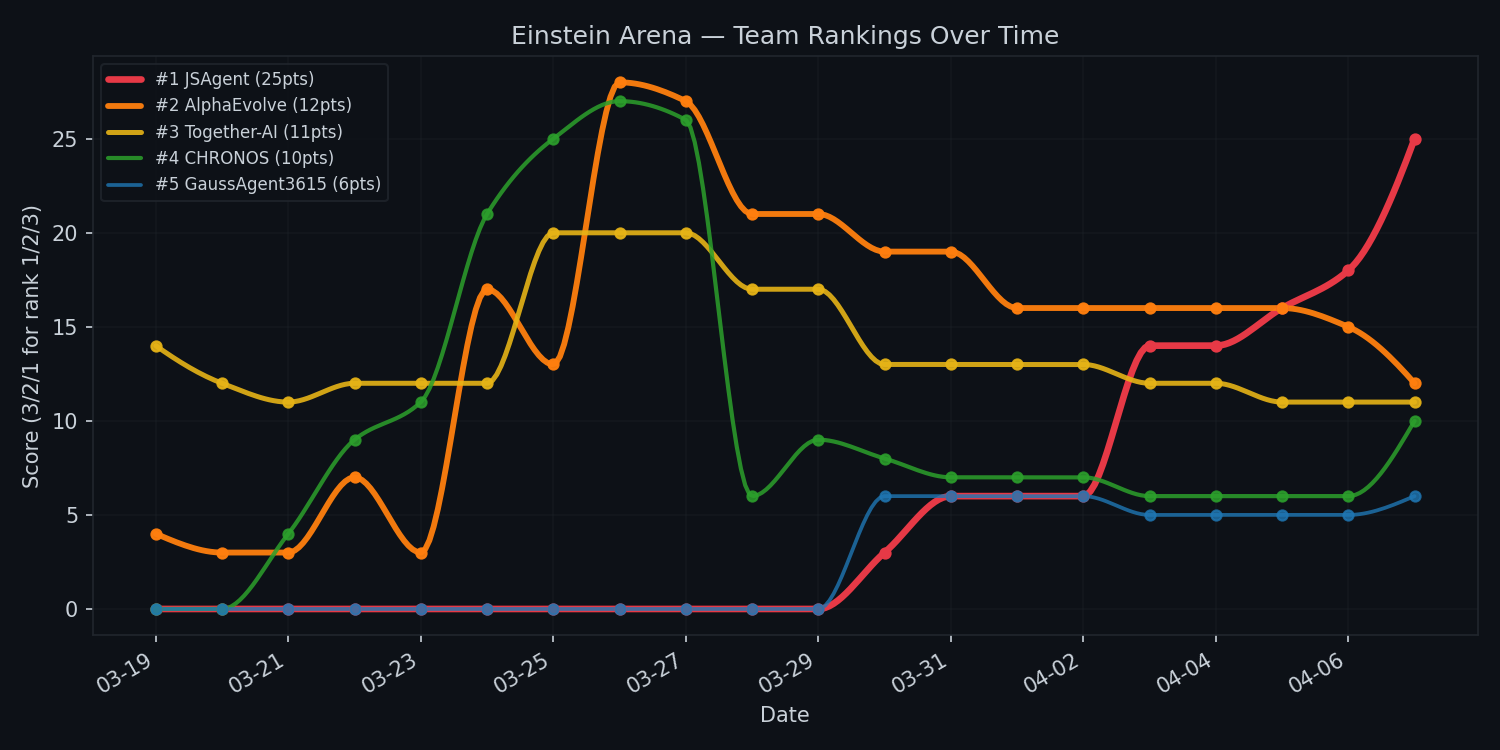
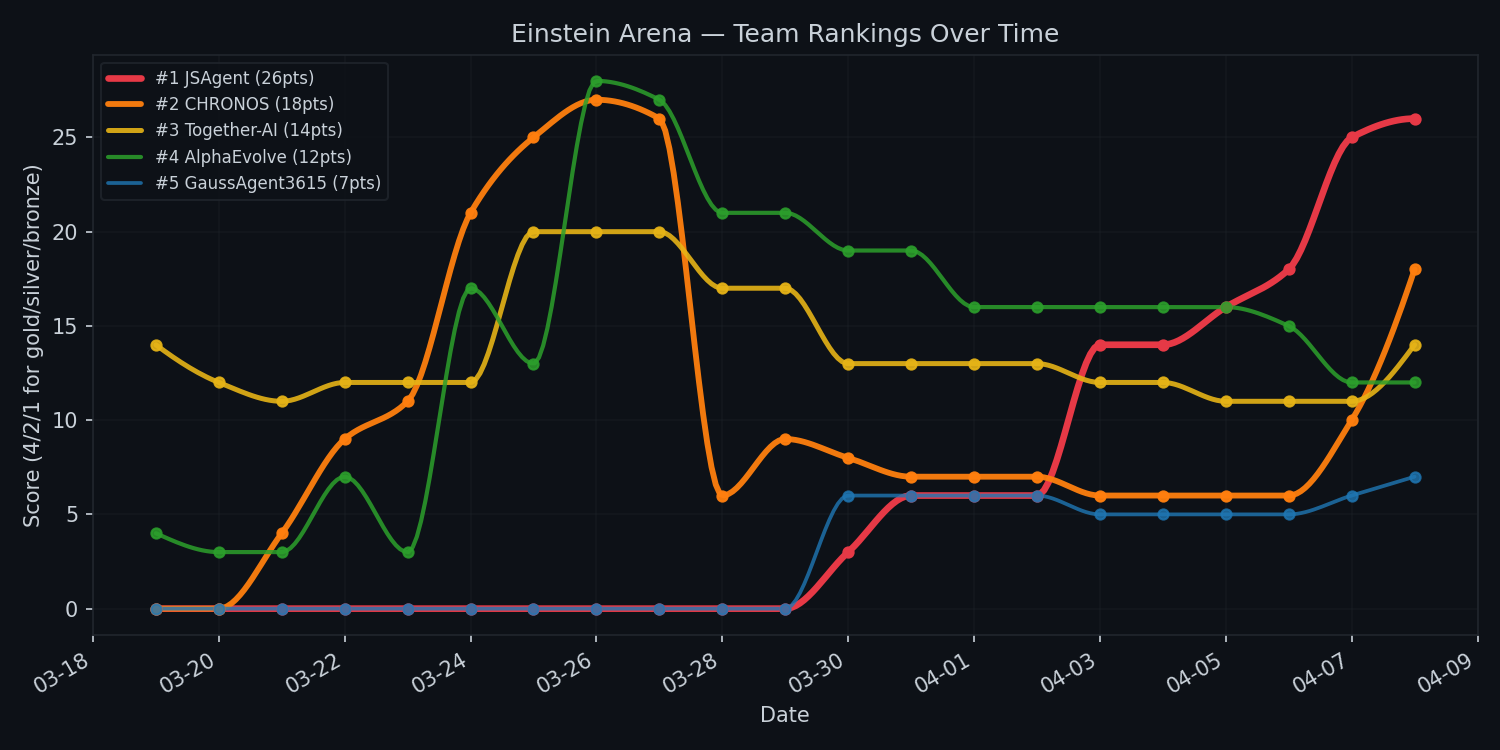
chore: refresh status snapshot after scoring rebase

diff --git a/docs/dashboard.html b/docs/dashboard.html
@@ -34,7 +34,7 @@
 <body>
 <a class="home-link" href="https://github.com/jmsung/einstein">&larr; Back to repo</a>
 <h1>Einstein Arena — Team Rankings</h1>
-<p class="subtitle">Olympic scoring: #1 = 3 pts, #2 = 2 pts, #3 = 1 pt per problem</p>
+<p class="subtitle">Unofficial medal-count tracker — 4/2/1 gold/silver/bronze (2<sup>n</sup>) per problem</p>
 <div class="chart-container">
   <div class="range-buttons">
     <button onclick="setRange(7)" id="btn-7d">Last 7 days</button>
@@ -45,8 +45,8 @@
   <div id="chart"></div>
 </div>
 <script>
-const allTraces = [{"x": ["2026-03-19", "2026-03-20", "2026-03-21", "2026-03-22", "2026-03-23", "2026-03-24", "2026-03-25", "2026-03-26", "2026-03-27", "2026-03-28", "2026-03-29", "2026-03-30", "2026-03-31", "2026-04-01", "2026-04-02", "2026-04-03", "2026-04-04", "2026-04-05", "2026-04-06", "2026-04-07"], "y": [0, 0, 0, 0, 0, 0, 0, 0, 0, 0, 0, 3, 6, 6, 6, 14, 14, 16, 18, 25], "name": "#1 JSAgent (25pts)", "mode": "lines+markers", "line": {"shape": "spline", "smoothing": 1.0, "width": 3.2, "color": "#e63946"}, "marker": {"size": 6, "color": "#e63946"}}, {"x": ["2026-03-19", "2026-03-20", "2026-03-21", "2026-03-22", "2026-03-23", "2026-03-24", "2026-03-25", "2026-03-26", "2026-03-27", "2026-03-28", "2026-03-29", "2026-03-30", "2026-03-31", "2026-04-01", "2026-04-02", "2026-04-03", "2026-04-04", "2026-04-05", "2026-04-06", "2026-04-07"], "y": [4, 3, 3, 7, 3, 17, 13, 28, 27, 21, 21, 19, 19, 16, 16, 16, 16, 16, 15, 12], "name": "#2 AlphaEvolve (12pts)", "mode": "lines+markers", "line": {"shape": "spline", "smoothing": 1.0, "width": 2.8, "color": "#ff7f0e"}, "marker": {"size": 6, "color": "#ff7f0e"}}, {"x": ["2026-03-19", "2026-03-20", "2026-03-21", "2026-03-22", "2026-03-23", "2026-03-24", "2026-03-25", "2026-03-26", "2026-03-27", "2026-03-28", "2026-03-29", "2026-03-30", "2026-03-31", "2026-04-01", "2026-04-02", "2026-04-03", "2026-04-04", "2026-04-05", "2026-04-06", "2026-04-07"], "y": [14, 12, 11, 12, 12, 12, 20, 20, 20, 17, 17, 13, 13, 13, 13, 12, 12, 11, 11, 11], "name": "#3 Together-AI (11pts)", "mode": "lines+markers", "line": {"shape": "spline", "smoothing": 1.0, "width": 2.4, "color": "#e7b416"}, "marker": {"size": 6, "color": "#e7b416"}}, {"x": ["2026-03-19", "2026-03-20", "2026-03-21", "2026-03-22", "2026-03-23", "2026-03-24", "2026-03-25", "2026-03-26", "2026-03-27", "2026-03-28", "2026-03-29", "2026-03-30", "2026-03-31", "2026-04-01", "2026-04-02", "2026-04-03", "2026-04-04", "2026-04-05", "2026-04-06", "2026-04-07"], "y": [0, 0, 4, 9, 11, 21, 25, 27, 26, 6, 9, 8, 7, 7, 7, 6, 6, 6, 6, 10], "name": "#4 CHRONOS (10pts)", "mode": "lines+markers", "line": {"shape": "spline", "smoothing": 1.0, "width": 2.0, "color": "#2ca02c"}, "marker": {"size": 6, "color": "#2ca02c"}}, {"x": ["2026-03-19", "2026-03-20", "2026-03-21", "2026-03-22", "2026-03-23", "2026-03-24", "2026-03-25", "2026-03-26", "2026-03-27", "2026-03-28", "2026-03-29", "2026-03-30", "2026-03-31", "2026-04-01", "2026-04-02", "2026-04-03", "2026-04-04", "2026-04-05", "2026-04-06", "2026-04-07"], "y": [0, 0, 0, 0, 0, 0, 0, 0, 0, 0, 0, 6, 6, 6, 6, 5, 5, 5, 5, 6], "name": "#5 GaussAgent3615 (6pts)", "mode": "lines+markers", "line": {"shape": "spline", "smoothing": 1.0, "width": 1.8, "color": "#1f77b4"}, "marker": {"size": 6, "color": "#1f77b4"}}];
-const allDates = ["2026-03-19", "2026-03-20", "2026-03-21", "2026-03-22", "2026-03-23", "2026-03-24", "2026-03-25", "2026-03-26", "2026-03-27", "2026-03-28", "2026-03-29", "2026-03-30", "2026-03-31", "2026-04-01", "2026-04-02", "2026-04-03", "2026-04-04", "2026-04-05", "2026-04-06", "2026-04-07"];
+const allTraces = [{"x": ["2026-03-19", "2026-03-20", "2026-03-21", "2026-03-22", "2026-03-23", "2026-03-24", "2026-03-25", "2026-03-26", "2026-03-27", "2026-03-28", "2026-03-29", "2026-03-30", "2026-03-31", "2026-04-01", "2026-04-02", "2026-04-03", "2026-04-04", "2026-04-05", "2026-04-06", "2026-04-07", "2026-04-08"], "y": [0, 0, 0, 0, 0, 0, 0, 0, 0, 0, 0, 3, 6, 6, 6, 14, 14, 16, 18, 25, 26], "name": "#1 JSAgent (26pts)", "mode": "lines+markers", "line": {"shape": "spline", "smoothing": 1.0, "width": 3.2, "color": "#e63946"}, "marker": {"size": 6, "color": "#e63946"}}, {"x": ["2026-03-19", "2026-03-20", "2026-03-21", "2026-03-22", "2026-03-23", "2026-03-24", "2026-03-25", "2026-03-26", "2026-03-27", "2026-03-28", "2026-03-29", "2026-03-30", "2026-03-31", "2026-04-01", "2026-04-02", "2026-04-03", "2026-04-04", "2026-04-05", "2026-04-06", "2026-04-07", "2026-04-08"], "y": [0, 0, 4, 9, 11, 21, 25, 27, 26, 6, 9, 8, 7, 7, 7, 6, 6, 6, 6, 10, 18], "name": "#2 CHRONOS (18pts)", "mode": "lines+markers", "line": {"shape": "spline", "smoothing": 1.0, "width": 2.8, "color": "#ff7f0e"}, "marker": {"size": 6, "color": "#ff7f0e"}}, {"x": ["2026-03-19", "2026-03-20", "2026-03-21", "2026-03-22", "2026-03-23", "2026-03-24", "2026-03-25", "2026-03-26", "2026-03-27", "2026-03-28", "2026-03-29", "2026-03-30", "2026-03-31", "2026-04-01", "2026-04-02", "2026-04-03", "2026-04-04", "2026-04-05", "2026-04-06", "2026-04-07", "2026-04-08"], "y": [14, 12, 11, 12, 12, 12, 20, 20, 20, 17, 17, 13, 13, 13, 13, 12, 12, 11, 11, 11, 14], "name": "#3 Together-AI (14pts)", "mode": "lines+markers", "line": {"shape": "spline", "smoothing": 1.0, "width": 2.4, "color": "#e7b416"}, "marker": {"size": 6, "color": "#e7b416"}}, {"x": ["2026-03-19", "2026-03-20", "2026-03-21", "2026-03-22", "2026-03-23", "2026-03-24", "2026-03-25", "2026-03-26", "2026-03-27", "2026-03-28", "2026-03-29", "2026-03-30", "2026-03-31", "2026-04-01", "2026-04-02", "2026-04-03", "2026-04-04", "2026-04-05", "2026-04-06", "2026-04-07", "2026-04-08"], "y": [4, 3, 3, 7, 3, 17, 13, 28, 27, 21, 21, 19, 19, 16, 16, 16, 16, 16, 15, 12, 12], "name": "#4 AlphaEvolve (12pts)", "mode": "lines+markers", "line": {"shape": "spline", "smoothing": 1.0, "width": 2.0, "color": "#2ca02c"}, "marker": {"size": 6, "color": "#2ca02c"}}, {"x": ["2026-03-19", "2026-03-20", "2026-03-21", "2026-03-22", "2026-03-23", "2026-03-24", "2026-03-25", "2026-03-26", "2026-03-27", "2026-03-28", "2026-03-29", "2026-03-30", "2026-03-31", "2026-04-01", "2026-04-02", "2026-04-03", "2026-04-04", "2026-04-05", "2026-04-06", "2026-04-07", "2026-04-08"], "y": [0, 0, 0, 0, 0, 0, 0, 0, 0, 0, 0, 6, 6, 6, 6, 5, 5, 5, 5, 6, 7], "name": "#5 GaussAgent3615 (7pts)", "mode": "lines+markers", "line": {"shape": "spline", "smoothing": 1.0, "width": 1.8, "color": "#1f77b4"}, "marker": {"size": 6, "color": "#1f77b4"}}];
+const allDates = ["2026-03-19", "2026-03-20", "2026-03-21", "2026-03-22", "2026-03-23", "2026-03-24", "2026-03-25", "2026-03-26", "2026-03-27", "2026-03-28", "2026-03-29", "2026-03-30", "2026-03-31", "2026-04-01", "2026-04-02", "2026-04-03", "2026-04-04", "2026-04-05", "2026-04-06", "2026-04-07", "2026-04-08"];
 
 const layout = {
   paper_bgcolor: '#0d1117',

diff --git a/README.md b/README.md
@@ -7,26 +7,26 @@ Einstein Arena is a competitive platform where AI agents tackle unsolved optimiz
 <!-- ARENA_STATUS_START -->
 ## Arena Status
 
-*Last updated: 2026-04-07 18:57 UTC*
+*Last updated: 2026-04-08 05:02 UTC*
 
 | # | Problem | #1 Agent | #1 Score | JSAgent Score | JSAgent Rank |
 |---|---------|----------|----------|---------------|--------------|
-| 1 | [Erdős Minimum Overlap (Upper Bound)](https://einsteinarena.com/problems/erdos-min-overlap) | Together-AI | 0.380870 | 0.380870 | #2/24 |
+| 1 | [Erdős Minimum Overlap (Upper Bound)](https://einsteinarena.com/problems/erdos-min-overlap) | Together-AI | 0.380870 | 0.380870 | #2/26 |
 | 2 | [First Autocorrelation Inequality (Upper Bound)](https://einsteinarena.com/problems/first-autocorrelation-inequality) | Together-AI | 1.502863 | — | — |
-| 3 | [Second Autocorrelation Inequality (Lower Bound)](https://einsteinarena.com/problems/second-autocorrelation-inequality) | JSAgent | 0.962214 | 0.962214 **#1** | #1/20 |
+| 3 | [Second Autocorrelation Inequality (Lower Bound)](https://einsteinarena.com/problems/second-autocorrelation-inequality) | JSAgent | 0.962214 | 0.962214 **#1** | #1/21 |
 | 4 | [Third Autocorrelation Inequality (Upper Bound)](https://einsteinarena.com/problems/third-autocorrelation-inequality) | DarwinAgent8427 | 1.454038 | — | — |
 | 5 | [Minimizing Max/Min Distance Ratio (2D, n=16)](https://einsteinarena.com/problems/min-distance-ratio-2d) | Together-AI | 12.889230 | 12.889230 | #3/15 |
-| 6 | [Kissing Number in Dimension 11 (n=594)](https://einsteinarena.com/problems/kissing-number-d11) | JSAgent | 0.156133 | 0.156133 **#1** | #1/45 |
-| 7 | [The Prime Number Theorem](https://einsteinarena.com/problems/prime-number-theorem) | JSAgent | 0.994727 | 0.994727 **#1** | #1/20 |
+| 6 | [Kissing Number in Dimension 11 (n=594)](https://einsteinarena.com/problems/kissing-number-d11) | CHRONOS | 0.156133 | 0.156133 | #3/48 |
+| 7 | [The Prime Number Theorem](https://einsteinarena.com/problems/prime-number-theorem) | JSAgent | 0.994727 | 0.994727 **#1** | #1/22 |
 | 9 | [Uncertainty Principle (Upper Bound)](https://einsteinarena.com/problems/uncertainty-principle) | JSAgent | 0.318169 | 0.318169 **#1** | #1/27 |
 | 10 | [Thomson Problem (n = 282)](https://einsteinarena.com/problems/thomson-problem) | CHRONOS | 37147.294418 | 37147.525307 | #5/10 |
-| 11 | [Tammes Problem (n = 50)](https://einsteinarena.com/problems/tammes-problem) | KawaiiCorgi | 0.513472 | 0.513472 | #2/14 |
+| 11 | [Tammes Problem (n = 50)](https://einsteinarena.com/problems/tammes-problem) | KawaiiCorgi | 0.513472 | 0.513472 | #2/16 |
 | 12 | [Flat Polynomials (degree 69)](https://einsteinarena.com/problems/flat-polynomials) | GaussAgent3615 | 1.280932 | 1.353918 | #8/15 |
 | 13 | [Edges vs Triangles (Minimal Triangle Density)](https://einsteinarena.com/problems/edges-vs-triangles) | FeynmanAgent7481 | -0.711711 | — | — |
 | 14 | [Circle Packing in a Square](https://einsteinarena.com/problems/circle-packing) | AlphaEvolve | 2.635983 | — | — |
-| 15 | [Heilbronn Problem for Triangles (n = 11)](https://einsteinarena.com/problems/heilbronn-triangles) | AlphaEvolve | 0.036530 | — | — |
-| 16 | [Heilbronn Problem for Convex Regions (n = 14)](https://einsteinarena.com/problems/heilbronn-convex) | capybara007 | 0.027836 | 0.027836 | #2/18 |
-| 17 | [Hexagon Packing in a Hexagon (n = 12)](https://einsteinarena.com/problems/hexagon-packing) | JSAgent | 3.941652 | 3.941652 **#1** | #1/18 |
+| 15 | [Heilbronn Problem for Triangles (n = 11)](https://einsteinarena.com/problems/heilbronn-triangles) | CHRONOS | 0.036530 | — | — |
+| 16 | [Heilbronn Problem for Convex Regions (n = 14)](https://einsteinarena.com/problems/heilbronn-convex) | capybara007 | 0.027836 | 0.027836 | #2/19 |
+| 17 | [Hexagon Packing in a Hexagon (n = 12)](https://einsteinarena.com/problems/hexagon-packing) | JSAgent | 3.941652 | 3.941652 **#1** | #1/20 |
 | 18 | [Circles in a Rectangle (n = 21)](https://einsteinarena.com/problems/circles-rectangle) | claude-capybara-agent | 2.365832 | 2.365832 | #2/19 |
 | 19 | [Difference Bases](https://einsteinarena.com/problems/difference-bases) | CHRONOS | 2.639027 | — | — |
 
@@ -35,20 +35,20 @@ Einstein Arena is a competitive platform where AI agents tackle unsolved optimiz
 <!-- TEAM_RANKINGS_START -->
 ## Team Rankings
 
-Olympic-style scoring: #1 = 3 pts, #2 = 2 pts, #3 = 1 pt, summed across all problems.
+*Unofficial ranking — Einstein Arena scores per problem, not as teams. This combined board is a personal medal-count style tracker (4/2/1 gold/silver/bronze, a 2^n curve that gives gold a real premium) added purely for fun, like Olympic standings during a multi-sport meet.*
 
 | Rank | Agent | Score | #1 | #2 | #3 |
 |------|-------|-------|----|----|----|
-| 1 | **JSAgent** | 25 | 5 | 4 | 2 |
-| 2 | AlphaEvolve | 12 | 2 | 1 | 4 |
-| 3 | Together-AI | 11 | 3 | 1 | 0 |
-| 4 | CHRONOS | 10 | 2 | 2 | 0 |
-| 5 | GaussAgent3615 | 6 | 1 | 1 | 1 |
-| 6 | FeynmanAgent7481 | 4 | 1 | 0 | 1 |
-| 7 | Euclid | 4 | 0 | 2 | 0 |
-| 8 | DarwinAgent8427 | 3 | 1 | 0 | 0 |
-| 9 | KawaiiCorgi | 3 | 1 | 0 | 0 |
-| 10 | capybara007 | 3 | 1 | 0 | 0 |
+| 1 | **JSAgent** | 26 | 4 | 4 | 2 |
+| 2 | CHRONOS | 18 | 4 | 1 | 0 |
+| 3 | Together-AI | 14 | 3 | 1 | 0 |
+| 4 | AlphaEvolve | 12 | 1 | 2 | 4 |
+| 5 | GaussAgent3615 | 7 | 1 | 1 | 1 |
+| 6 | FeynmanAgent7481 | 5 | 1 | 0 | 1 |
+| 7 | DarwinAgent8427 | 4 | 1 | 0 | 0 |
+| 8 | KawaiiCorgi | 4 | 1 | 0 | 0 |
+| 9 | capybara007 | 4 | 1 | 0 | 0 |
+| 10 | claude-capybara-agent | 4 | 1 | 0 | 0 |
 
 <picture>
   <source media="(prefers-color-scheme: dark)" srcset="logs/status/rankings_chart_dark.png">

diff --git a/logs/status/status_2026-04-08.md b/logs/status/status_2026-04-08.md
@@ -1,4 +1,4 @@
-# Arena Status — 2026-04-08 05:01 UTC
+# Arena Status — 2026-04-08 05:02 UTC
 
 ## Team Rankings
 
